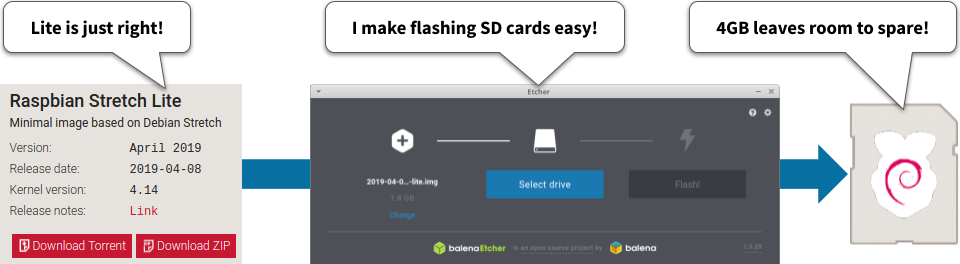
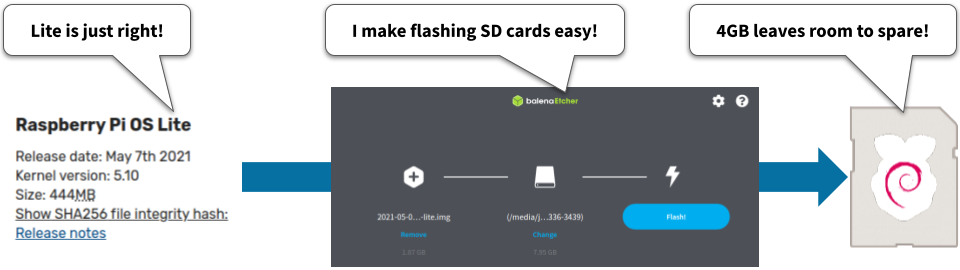
Validated and improved tutorial

diff --git a/diy/pi-prep/index.html b/diy/pi-prep/index.html
@@ -151,11 +151,11 @@
               <hr>
               <dl class="row">
                 <dt class="col-sm-3"> What will this accomplish? </dt>
-                <dd class="col-sm-9"> A clean, lean installation of the latest Raspberry Pi OS Lite build ready to run Node.js programs like our Pareto Anywhere middleware. </dd>
+                <dd class="col-sm-9"> A clean, lean installation of the latest Raspberry Pi OS Lite build ready to run <i class="fab fa-node-js"></i> Node.js programs like our <a href="https://www.reelyactive.com/pareto/anywhere/" target="_blank"><i class="fas fa-external-link-alt"></i> Pareto Anywhere</a> middleware. </dd>
                 <dt class="col-sm-3"> Is there an easier way? </dt>
-                <dd class="col-sm-9"> Yes, you can simply flash a ready-made disk image to a SD card. </dd>
+                <dd class="col-sm-9"> Yes, you can simply flash a ready-made disk image to a SD card <i class="fas fa-sd-card"></i>. </dd>
                 <dt class="col-sm-3"> So why would I read this? </dt>
-                <dd class="col-sm-9"> To understand and follow the process to create your own SD card image. </dd>
+                <dd class="col-sm-9"> To understand and follow the process to create your own SD card <i class="fas fa-sd-card"></i> image. </dd>
               </dl>
             </div>
           </div>
@@ -180,33 +180,33 @@
             </div>
           </div>
           <h3 class="mt-4"> Prerequisites </h3>
-          <p> We'll flash the <i class="fas fa-sd-card"></i> SD card with Etcher, a friendly open source tool that you can download <a href="https://www.balena.io/etcher/" target="_blank">here</a>. </p>
+          <p> We'll flash the SD card <i class="fas fa-sd-card"></i> with Etcher, a friendly open source tool that you can download <a href="https://www.balena.io/etcher/" target="_blank">here</a>. </p>
           <h3 class="mt-4">
             Download and unzip the latest Raspberry Pi OS Lite
             <small class="text-muted"> Part 1 </small>
           </h3>
-          <p> From the computer <i class="fas fa-laptop"></i> with which you intend to flash the <i class="fas fa-sd-card"></i> SD card: </p>
+          <p> From the computer <i class="fas fa-laptop"></i> with which you intend to flash the SD card <i class="fas fa-sd-card"></i>: </p>
           <ol>
-            <li> Browse to <a href="https://www.raspberrypi.org/downloads/raspberry-pi-os/" target="_blank"> www.raspberrypi.org/downloads/raspberry-pi-os/ </a> </li>
+            <li> Browse to <a href="https://www.raspberrypi.com/software/operating-systems/#raspberry-pi-os-32-bit" target="_blank"> www.raspberrypi.com/software/operating-systems/ </a> </li>
             <li> Scroll down to find the <b>Lite</b> version </li>
             <li> Download the <a href="https://downloads.raspberrypi.org/raspios_lite_armhf_latest" target="_blank">ZIP</a> or <a href="https://downloads.raspberrypi.org/raspios_lite_armhf_latest.torrent" target="_blank">Torrent</a>, as you prefer </li>
             <li> Unzip the downloaded file </li>
           </ol>
-          <p> You should now have a file entitled <b>20xx-xx-xx-raspios-buster-lite.img</b> on your computer <i class="fas fa-laptop"></i>.  Let's flash! </p>
+          <p> You should now have a file entitled <b>20xx-xx-xx-raspios-buster-armhf-lite.img</b> on your computer <i class="fas fa-laptop"></i>.  Let's flash! </p>
           <h3 class="mt-4">
             Flash the Raspberry Pi OS image to the SD card
             <small class="text-muted"> Part 2 </small>
           </h3>
           <p> <span class="badge rounded-pill bg-primary"><i class="fas fa-info"></i></span> We recommend using micro SD cards from reputable vendors of at least 4GB size. </p>
-          <p> From the computer <i class="fas fa-laptop"></i> with which you intend to flash the <i class="fas fa-sd-card"></i> SD card: </p>
+          <p> From the computer <i class="fas fa-laptop"></i> with which you intend to flash the SD card <i class="fas fa-sd-card"></i>: </p>
           <ol>
-            <li> Insert the <i class="fas fa-sd-card"></i> SD card (via adapter if required) and observe that it is recognised/mounted by the operating system </li>
+            <li> Insert the SD card <i class="fas fa-sd-card"></i> (via adapter if required) and observe that it is recognised/mounted by the operating system </li>
             <li> Run Etcher (see Prerequisites above) by double-clicking <i class="fas fa-mouse-pointer"></i>  its executable AppImage or desktop icon </li>
-            <li> In the Etcher interface, select the image file </li>
-            <li> In the Etcher interface, confirm that the SD card is automatically selected, or select manually </li>
-            <li> In the Etcher interface, click <i>Flash!</i> </li>
+            <li> In the Etcher interface, select the <b>20xx-xx-xx-raspios-buster-armhf-lite.img</b> file </li>
+            <li> In the Etcher interface, confirm that the SD card <i class="fas fa-sd-card"></i> is automatically selected, or select manually </li>
+            <li> In the Etcher interface, click <i>Flash!</i> &nbsp; <span class="badge bg-info"> <i class="fas fa-clock"></i> &nbsp; 4 mins </span> </li>
           </ol>
-          <p> Within a few minutes the <i class="fas fa-sd-card"></i> SD card should be flashed and verified.  Unmount (if necessary) and eject the card <i class="fas fa-eject"></i>. </p>
+          <p> Proceed to the next step once the SD card <i class="fas fa-sd-card"></i> is flashed and verified. </p>
           <!----- Step 2 of 5 ----->
           <div class="card mt-5 bg-light border-0">
             <div class="card-body pt-4">
@@ -218,21 +218,22 @@
               <hr>
               <dl class="row">
                 <dt class="col-sm-3"> Why more pre-config? </dt>
-                <dd class="col-sm-9"> Unless you have a monitor and keyboard for the Pi, good luck with the first connection otherwise! </dd>
+                <dd class="col-sm-9"> Unless you have a monitor and keyboard for the <i class="fab fa-raspberry-pi"></i> Pi, good luck with the first connection otherwise! </dd>
                 <dt class="col-sm-3"> Why so difficult to connect? </dt>
-                <dd class="col-sm-9"> By default SSH is disabled (for security) so even if you can reach the Pi over a network, it will refuse to connect! </dd>
+                <dd class="col-sm-9"> By default SSH is disabled (for security) so even if you can reach the <i class="fab fa-raspberry-pi"></i> Pi over a network, it will refuse to connect! </dd>
               </dl>
               <img src="images/predictable-network-names-and-eth0-fallback.jpg"
                    class="card-img-bottom"
                    alt="Predictable network names and eth0 fallback">
             </div>
           </div>
-          <p class="mt-4"> Re-insert the <i class="fas fa-sd-card"></i> SD card into the computer <i class="fas fa-laptop"></i>.  The computer should now mount two partitions: <code>boot</code> and <code>rootfs</code>.  We'll make minor changes to each partition as follows. </p>
+          <p class="mt-4"> Following the flashing of the SD card <i class="fas fa-sd-card"></i> in the previous step, the computer <i class="fas fa-laptop"></i> should automatically mount two partitions: <b>boot</b> and <b>rootfs</b>.  We'll make minor changes to each partition as follows. </p>
+          <p> <span class="badge rounded-pill bg-warning"><i class="fas fa-exclamation-triangle"></i></span> If the partitions <em>aren't</em> automatically mounted, eject <i class="fas fa-eject"></i> the SD card <i class="fas fa-sd-card"></i> and then re-insert into the computer <i class="fas fa-laptop"></i>. </p>
           <h3 class="mt-4">
             Enable SSH and predictable network interface names
             <small class="text-muted"> Part 1 </small>
           </h3>
-          <p> Open a terminal <i class="fas fa-terminal"></i> and browse to the root of the <b>/boot</b> partition, then: </p>
+          <p> Open a terminal <i class="fas fa-terminal"></i> and browse to the root of the <b>boot</b> partition (ex: <code class="user-select-all">cd /media/user/boot/</code>), then: </p>
           <ol>
             <li> Enable SSH with the command <code class="user-select-all">sudo touch ./ssh</code> </li>
             <li> Open the file <b>cmdline.txt</b> and append the following to the first line: <code class="user-select-all">net.ifnames=0</code> </li>
@@ -242,18 +243,19 @@
             Fallback to static Ethernet IP address
             <small class="text-muted"> Part 2 </small>
           </h3>
-          <p> Open a terminal <i class="fas fa-terminal"></i> and browse to the root of the <b>/rootfs</b> partition.  Edit the <b>/etc/dhcpcd.conf</b> file to include the following (simply append or uncomment and edit): </p>
-          <pre class="user-select-all"># Define static profile
+          <p> Open a terminal <i class="fas fa-terminal"></i> and browse to the root of the <b>rootfs</b> partition (ex: <code class="user-select-all">cd /media/user/rootfs/</code>).  Edit the <b>/etc/dhcpcd.conf</b> file to include the following (simply append or uncomment and edit): </p>
+          <pre class="user-select-all"># It is possible to fall back to a static IP if DHCP fails:
+# define static profile
 profile static_eth0
 static ip_address=10.0.50.100/24
 static routers=10.0.50.1
 static domain_name_servers=10.0.50.1
 
-# Fallback to static profile on eth0
+# fallback to static profile on eth0
 interface eth0
 fallback static_eth0</pre>
           <p> This will ensure that the <i class="fab fa-raspberry-pi"></i> Pi boots with the static Ethernet <i class="fas fa-ethernet"></i> address of <b>10.0.50.100</b> in the absence of DHCP, as will be the case, and will prove helpful on any occasion where it is necessary to <i>directly</i> connect to the <i class="fab fa-raspberry-pi"></i> Pi over Ethernet, as in the following step. </p>
-          <p> Unmount both partitions and eject <i class="fas fa-eject"></i> the <i class="fas fa-sd-card"></i> SD card which is now ready to find its way into the Pi. </p>
+          <p> Unmount both partitions and eject <i class="fas fa-eject"></i> the SD card <i class="fas fa-sd-card"></i> which is now ready to find its way into the <i class="fab fa-raspberry-pi"></i> Pi. </p>
           <!----- Step 3 of 5 ----->
           <div class="card mt-5 bg-light border-0">
             <div class="card-body pt-4">
@@ -265,20 +267,20 @@ fallback static_eth0</pre>
               <hr>
               <dl class="row">
                 <dt class="col-sm-3"> Why connect over Ethernet? </dt>
-                <dd class="col-sm-9"> Because we know the Pi's static IP address, making this the easiest way to connect at first. </dd>
+                <dd class="col-sm-9"> Because we know the <i class="fab fa-raspberry-pi"></i> Pi's static IP address, making this the easiest way to connect at first. </dd>
                 <dt class="col-sm-3"> Why use SSH? </dt>
-                <dd class="col-sm-9"> Unless you have a display and keyboard connected to the Pi, the only way to remotely execute commands is over SSH! </dd>
+                <dd class="col-sm-9"> Unless you have a display and keyboard connected to the <i class="fab fa-raspberry-pi"></i> Pi, the only way to remotely execute commands is over SSH! </dd>
               </dl>
               <img src="images/raspi-config.jpg"
                    class="card-img-bottom" alt="raspi-config">
             </div>
           </div>
-          <p class="mt-4"> The <i class="fas fa-sd-card"></i> SD card should now be inserted into the <i class="fab fa-raspberry-pi"></i> Pi. </p>
+          <p class="mt-4"> <span class="badge rounded-pill bg-primary"><i class="fas fa-info"></i></span> The SD card <i class="fas fa-sd-card"></i> should only be inserted into (or removed from) the <i class="fab fa-raspberry-pi"></i> Pi when it is <em>disconnected</em> from power. </p>
           <h3 class="mt-4">
             Boot the Pi and connect via SSH over Ethernet
             <small class="text-muted"> Part 1 </small>
           </h3>
-          <p> With the <i class="fas fa-sd-card"></i> SD card inserted into the <i class="fab fa-raspberry-pi"></i> Pi, complete the following: </p>
+          <p> With the SD card <i class="fas fa-sd-card"></i> inserted into the <i class="fab fa-raspberry-pi"></i> Pi, complete the following: </p>
           <ol>
             <li> Apply power <i class="fas fa-plug"></i> to the <i class="fab fa-raspberry-pi"></i> Pi </li>
             <li> Connect the computer <i class="fas fa-laptop"></i> with the <i class="fab fa-raspberry-pi"></i> Pi using a network (Ethernet) cable <i class="fas fa-network-wired"></i> </li>
@@ -290,43 +292,43 @@ fallback static_eth0</pre>
             Complete the basic configuration with the raspi-config tool
             <small class="text-muted"> Part 2 </small>
           </h3>
-          <p> From the command prompt <i class="fas fa-terminal"></i> on the Pi <i class="fab fa-raspberry-pi"></i>, enter the command <code class="user-select-all">sudo raspi-config</code> which will open a text-based menu.  Update the configuration as per the following table where the settings are indicated in [ ]. </p>
+          <p> From the command prompt <i class="fas fa-terminal"></i> on the Pi <i class="fab fa-raspberry-pi"></i>, enter the command <code class="user-select-all">sudo raspi-config</code> which will open a text-based menu. </p>
+          <img src="images/raspi-config-menu.png"
+               class="img-fluid mx-auto d-block"
+               alt="raspi-config menu">
+          <p class="mt-4"> Update the configuration as per the following table where the settings are indicated in [ ]. </p>
           <table class="table table-hover">
             <thead>
               <tr>
-                <th scope="col">#</th>
-                <th scope="col">Option</th>
-                <th scope="col">Action(s)</th>
+                <th scope="col"> # </th>
+                <th scope="col"> Option </th>
+                <th scope="col"> Action(s) </th>
               </tr>
             </thead>
             <tbody>
               <tr>
-                <th scope="row">1</th>
-                <td>Change User Password</td>
-                <td>Set to <b>berryinsecure</b></td>
-              </tr>
-              <tr>
-                <th scope="row">2</th>
-                <td>Network Options</td>
+                <th scope="row"> 1 </th>
+                <td> System Options </td>
                 <td>
-                  N2 Wi-fi <i>(adjust the defaults as per your local WiFi network)</i>
+                  <b>S1</b> Wireless LAN
                   <ul>
-                    <li>Set country [<b>CA</b>]</li>
-                    <li>Please enter SSID [<b>reelyActive</b>]</li>
-                    <li>Please enter passphrase [<b>owl-in-one</b>]</li>
+                    <li>Set country<sup>*</sup> [<b>CA</b>]</li>
+                    <li>Please enter SSID<sup>*</sup> [<b>reelyActive</b>]</li>
+                    <li>Please enter passphrase<sup>*</sup> [<b>owl-in-one</b>]</li>
                   </ul>
+                  <p class="text-muted text-end"> <small><sup>*</sup>adjust as per your region and local WiFi network</small> </p>
                 </td>
               </tr>
               <tr>
-                <th scope="row">4</th>
-                <td>Localisation Options</td>
-                <td>I2 Change Timezone [<b>America | Montreal</b>]</td>
+                <th scope="row"> 1 </th>
+                <td> System Options </td>
+                <td> <b>S3</b> Password &nbsp; [<b>berryinsecure</b>] </td>
               </tr>
               <tr>
-                <th scope="row">5</th>
-                <td>Interfacing Options</td>
+                <th scope="row"> 3 </th>
+                <td> Interface Options </td>
                 <td>
-                  P6 Serial
+                  <b>P6</b> Serial Port
                   <ul>
                     <li>Would you like a login shell to be accessible over serial? [<b>No</b>]</li>
                     <li>Would you like the serial port hardware to be enabled? [<b>Yes</b>]</li>
@@ -334,13 +336,22 @@ fallback static_eth0</pre>
                 </td>
               </tr>
               <tr>
-                <th scope="row">7</th>
-                <td>Advanced Options</td>
-                <td>A1 Expand Filesystem [<b>Select</b>]</td>
+                <th scope="row"> 5 </th>
+                <td> Localisation Options </td>
+                <td>
+                  <b>L2</b> Change Timezone<sup>*</sup> &nbsp; [<b>America | Montreal</b>]
+                  <p class="text-muted text-end mt-2"> <small><sup>*</sup>adjust as per your region (reelyActive is "<a href="https://www.reelyactive.com/made-in-montreal/" target="_blank">Made in Montr&eacute;al</a>")</small> </p>
+                </td>
+              </tr>
+
+              <tr>
+                <th scope="row"> 6 </th>
+                <td> Advanced Options </td>
+                <td> <b>A1</b> Expand Filesystem [<b>Select</b>] </td>
               </tr>
             </tbody>
           </table>
-          <p> Upon completing the above, select <b>&lt;Finish&gt;</b> and select <b>&lt;Yes&gt;</b> when prompted to reboot.  If you entered valid WiFi <i class="fas fa-wifi"></i> settings, the Pi <i class="fab fa-raspberry-pi"></i> should connect to this network automatically, which will be required for the next step. </p>
+          <p> Upon completing the above, select <b>&lt;Finish&gt;</b> and select <b>&lt;Yes&gt;</b> when prompted to reboot.  If you entered valid WiFi <i class="fas fa-wifi"></i> settings, the <i class="fab fa-raspberry-pi"></i> Pi should connect to this network automatically, which will be required for the next step. </p>
           <!----- Step 4 of 5 ----->
           <div class="card mt-5 bg-light border-0">
             <div class="card-body pt-4">
@@ -348,13 +359,13 @@ fallback static_eth0</pre>
                 Second boot and DHCP server config &nbsp;
                 <a href="#step04" class="badge bg-primary"> Step 4 of 5 </a>
               </h2>
-              <p class="lead"> SSH into the Pi over WiFi and configure its Ethernet DHCP server to facilitate future direct connections. </p>
+              <p class="lead"> SSH into the <i class="fab fa-raspberry-pi"></i> Pi over WiFi and configure its Ethernet DHCP server to facilitate future direct connections. </p>
               <hr>
               <dl class="row">
                 <dt class="col-sm-3"> Why reconnect over WiFi? </dt>
-                <dd class="col-sm-9"> The Pi will require an Internet connection in subsequent steps.  A local area network (LAN) connection, such as over WiFi, affords both a local SSH login and Internet access for the Pi. </dd>
+                <dd class="col-sm-9"> The <i class="fab fa-raspberry-pi"></i> Pi will require an Internet connection in subsequent steps.  A local area network (LAN) connection, such as over WiFi, affords both a local SSH login and Internet access for the Pi. </dd>
                 <dt class="col-sm-3"> Why a DHCP server? </dt>
-                <dd class="col-sm-9"> Configuring a static IP address on a computer can be a pain (remember Step 3?).  A DHCP server enables the Pi to <i>automatically</i> assign an IP address to any computer with which it is directly <i class="fas fa-ethernet"></i> connected. </dd>
+                <dd class="col-sm-9"> Configuring a static IP address on a computer can be a pain (remember Step 3?).  A DHCP server enables the <i class="fab fa-raspberry-pi"></i> Pi to <i>automatically</i> assign an IP address to any computer with which it is directly <i class="fas fa-ethernet"></i> connected. </dd>
               </dl>
               <img src="images/dhcp-either-way.jpg" class="card-img-bottom"
                    alt="Raspberry Pi DHCP either way">
@@ -368,7 +379,7 @@ fallback static_eth0</pre>
           <p> With the <i class="fab fa-raspberry-pi"></i> Pi still connected to the computer <i class="fas fa-laptop"></i> via Ethernet <i class="fas fa-network-wired"></i>, and from the same terminal window <i class="fas fa-terminal"></i> as before: </p>
           <ol>
             <li> SSH back into the <i class="fab fa-raspberry-pi"></i> Pi with the command <code class="user-select-all">ssh pi@10.0.50.100</code>, using the <i>new</i> password <b class="user-select-all">berryinsecure</b> </li>
-            <li> Determine the <i class="fab fa-raspberry-pi"></i> Pi's WiFi <i class="fas fa-wifi"></i> IP address with the command <code class="user-select-all">ifconfig</code>.  It will be the <b>inet</b> value under <b>wlan0</b>. </li>
+            <li> Determine the <i class="fab fa-raspberry-pi"></i> Pi's WiFi <i class="fas fa-wifi"></i> IP address with the command <code class="user-select-all">ifconfig</code>.  It will be the <b>inet</b> value under <b>wlan0</b> <small class="text-muted">(ex: 192.168.0.123)</small> </li>
             <li> Exit the current SSH session with the command <code class="user-select-all">exit</code> </li>
             <li> SSH into the <i class="fab fa-raspberry-pi"></i> Pi over WiFi <i class="fas fa-wifi"></i> with the command <code class="user-select-all">ssh pi@xxx.xxx.xxx.xxx</code>, replacing the x values with the <i class="fab fa-raspberry-pi"></i> Pi's WiFi IP address. </li>
             <li> Disconnect the network cable between the <i class="fab fa-raspberry-pi"></i> Pi and the computer <i class="fas fa-laptop"></i>. </li>
@@ -383,7 +394,7 @@ fallback static_eth0</pre>
           <ol>
             <li> Install dnsmasq with the command <code class="user-select-all">sudo apt-get install dnsmasq</code> </li>
             <li> Save a copy <i class="fas fa-copy"></i> of the default configuration with the command <code class="user-select-all">sudo mv /etc/dnsmasq.conf /etc/dnsmasq.default</code> </li>
-            <li> Create the file <b>/etc/dnsmasq.conf</b>, paste in the following two lines and save:
+            <li> Create the file <b>/etc/dnsmasq.conf</b> with the command <code class="user-select-all">sudo nano /etc/dnsmasq.conf</code> then paste in the following two lines and save:
               <pre class="user-select-all">interface=eth0
 dhcp-range=10.0.50.2,10.0.50.99,255.255.255.0,12h</pre>
             </li>
@@ -400,11 +411,11 @@ dhcp-range=10.0.50.2,10.0.50.99,255.255.255.0,12h</pre>
             <tbody>
               <tr>
                 <th scope="row"> Yes </th>
-                <td> The Pi will accept the DHCP-assigned IP address </td>
+                <td> The <i class="fab fa-raspberry-pi"></i> Pi will accept the DHCP-assigned IP address </td>
               </tr>
               <tr>
                 <th scope="row"> No </th>
-                <td> The Pi will fallback to static IP address <b>10.0.50.100</b> <i>and</i> it will assign IP addresses in the range 10.0.50.2-99 to any connected devices </td>
+                <td> The <i class="fab fa-raspberry-pi"></i> Pi will fallback to static IP address <b>10.0.50.100</b> <i>and</i> it will assign IP addresses in the range 10.0.50.2-99 to any connected devices </td>
               </tr>
             </tbody>
           </table>
@@ -420,16 +431,16 @@ dhcp-range=10.0.50.2,10.0.50.99,255.255.255.0,12h</pre>
               <hr>
               <dl class="row">
                 <dt class="col-sm-3"> Why install Node.js? </dt>
-                <dd class="col-sm-9"> Our open source Pareto Anywhere middleware runs on Node.js. </dd>
+                <dd class="col-sm-9"> Our open source Pareto Anywhere middleware runs on <i class="fab fa-node-js"></i> Node.js. </dd>
                 <dt class="col-sm-3"> Why install git? </dt>
-                <dd class="col-sm-9"> To clone the Pareto Anywhere GitHub repo, and, because nothing says "I &hearts; Open Source Software" quite like git. </dd>
+                <dd class="col-sm-9"> To be able to clone GitHub repositories like that of Pareto Anywhere and other open source projects. </dd>
               </dl>
               <img src="images/node-npm-git.png" class="card-img-bottom"
                    alt="Node.js, npm and git">
             </div>
           </div>
           <h3 class="mt-4"> Prerequisites </h3>
-          <p> Visit <a href="https://nodejs.org" target="_blank">nodejs.org</a> <i class="fab fa-node-js"></i> and note the latest <b>LTS</b> version number available (ex: <b>12.18.1</b>).  Substitute this version number in all of the commands below. </p>
+          <p> Visit <a href="https://nodejs.org" target="_blank">nodejs.org</a> <i class="fab fa-node-js"></i> and note the latest <b>LTS</b> version number available (ex: <b>16.13.0</b>).  Substitute this version number in all of the commands below. </p>
           <h3 class="mt-4">
             Download and install Node.js and npm 
             <small class="text-muted"> Part 1 </small>
@@ -437,24 +448,24 @@ dhcp-range=10.0.50.2,10.0.50.99,255.255.255.0,12h</pre>
           <p> From the same terminal <i class="fas fa-terminal"></i> connected to the <i class="fab fa-raspberry-pi"></i> Pi via SSH over WiFi <i class="fas fa-wifi"></i>: </p>
           <ol>
             <li> Change to the home <i class="fas fa-home"></i> folder with the command <code class="user-select-all">cd</code> </li>
-            <li> Download the Node.js <i class="fab fa-node-js"></i> tarball with the command <code class="user-select-all">wget https://nodejs.org/dist/v12.18.1/node-v12.18.1-linux-armv7l.tar.xz</code> </li>
-            <li> Unpack with the command <code class="user-select-all">tar -xf node-v12.18.1-linux-armv7l.tar.xz</code> </li>
-            <li> Move the unpacked folder <i class="fas fa-folder"></i> to <b>/usr/local/node</b> with the command <code class="user-select-all">sudo mv node-v12.18.1-linux-armv7l /usr/local/node</code> </li>
-            <li> Remove <i class="fas fa-trash"></i> the original download with the command <code class="user-select-all">rm node-v12.18.1-linux-armv7l.tar.xz</code> </li>
+            <li> Download the <i class="fab fa-node-js"></i> Node.js tarball with the command <code class="user-select-all">wget https://nodejs.org/dist/v16.13.0/node-v16.13.0-linux-armv7l.tar.xz</code> </li>
+            <li> Unpack with the command <code class="user-select-all">tar -xf node-v16.13.0-linux-armv7l.tar.xz</code> </li>
+            <li> Move the unpacked folder <i class="fas fa-folder"></i> to <b>/usr/local/node</b> with the command <code class="user-select-all">sudo mv node-v16.13.0-linux-armv7l /usr/local/node</code> </li>
+            <li> Remove <i class="fas fa-trash"></i> the original download with the command <code class="user-select-all">rm node-v16.13.0-linux-armv7l.tar.xz</code> </li>
             <li> Change to the <b>/usr/local/bin</b> folder with the command <code class="user-select-all">cd /usr/local/bin</code> </li>
             <li> Create here a symbolic link <i class="fas fa-link"></i> to <b>node</b> with the command <code class="user-select-all">sudo ln -s /usr/local/node/bin/node node</code> </li>
             <li> Create here a symbolic link <i class="fas fa-link"></i> to <b>npm</b> with the command <code class="user-select-all">sudo ln -s /usr/local/node/bin/npm npm</code> </li>
           </ol>
-          <p> Confirm that node <i class="fab fa-node-js"></i> and npm <i class="fab fa-npm"></i> are successfully installed with the commands <code class="user-select-all">node --version</code> and <code class="user-select-all">npm --version</code> respectively. </p>
+          <p> Confirm that <b>node</b> and <b>npm</b> are successfully installed with the commands <code class="user-select-all">node --version</code> and <code class="user-select-all">npm --version</code> respectively. </p>
           <h3 class="mt-4">
             Update/upgrade all packages and install git 
             <small class="text-muted"> Part 2 </small>
           </h3>
           <p> Since the latest release of Raspberry Pi OS Lite, there are inevitably newer versions of some of the packages available. From the same terminal <i class="fas fa-terminal"></i> connected to the <i class="fab fa-raspberry-pi"></i> Pi via SSH over WiFi <i class="fas fa-wifi"></i>: </p>
           <ol>
-            <li> Update the list of available packages and their versions with the command <code class="user-select-all">sudo apt-get update</code> </li>
-            <li> Upgrade existing packages to the latest version with the command <code class="user-select-all">sudo apt-get upgrade</code> </li>
-            <li> Install git <i class="fab fa-git-square"></i> with the command <code class="user-select-all">sudo apt-get install git</code> </li>
+            <li> Update the list of available packages and their versions with the command <code class="user-select-all">sudo apt-get update</code> &nbsp; <span class="badge bg-info"> <i class="fas fa-clock"></i> &nbsp; 1 min </span> </li>
+            <li> Upgrade existing packages to the latest version with the command <code class="user-select-all">sudo apt-get upgrade</code> &nbsp; <span class="badge bg-info"> <i class="fas fa-clock"></i> &nbsp; 5 mins+ </span> </li>
+            <li> Install <i class="fab fa-git-square"></i> git with the command <code class="user-select-all">sudo apt-get install git</code> </li>
           </ol>
           <p> All software packages are now installed and at the latest version.  The <i class="fab fa-raspberry-pi"></i> Pi is prepared for the (optional) installation of Pareto Anywhere, which is the subject of the next tutorial: </p>
           <ul class="list-group list-group-horizontal">
